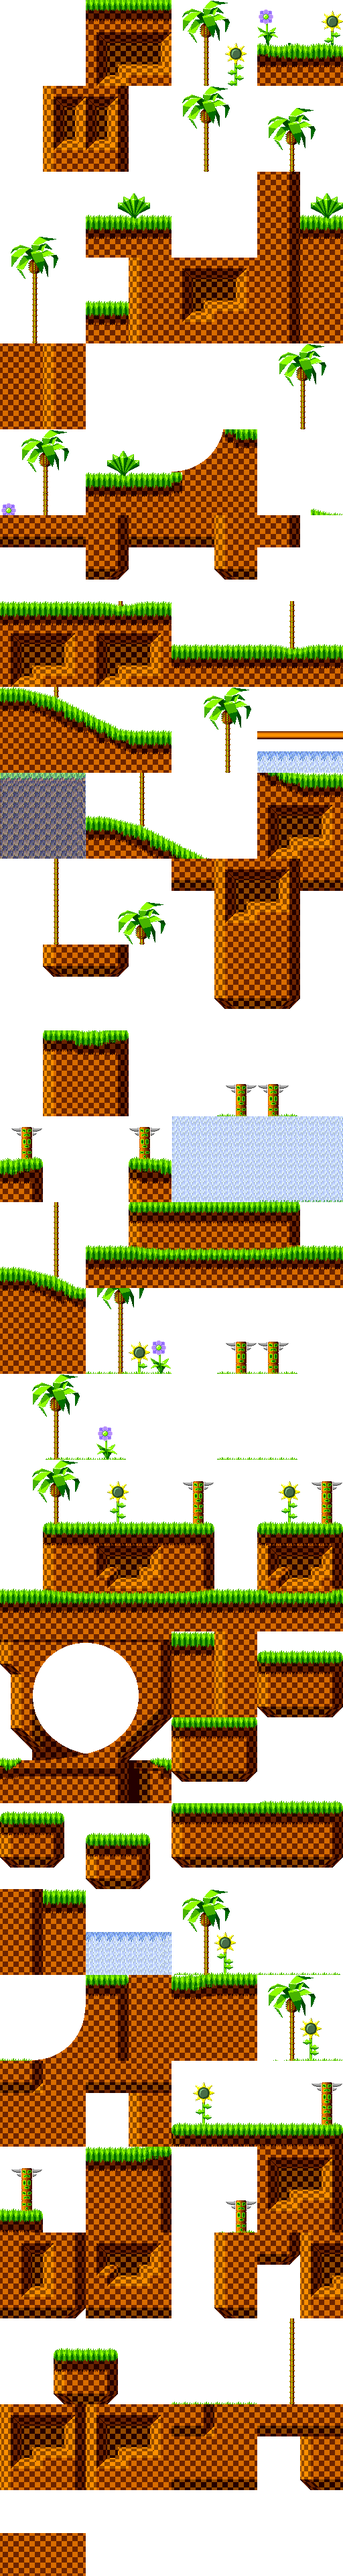
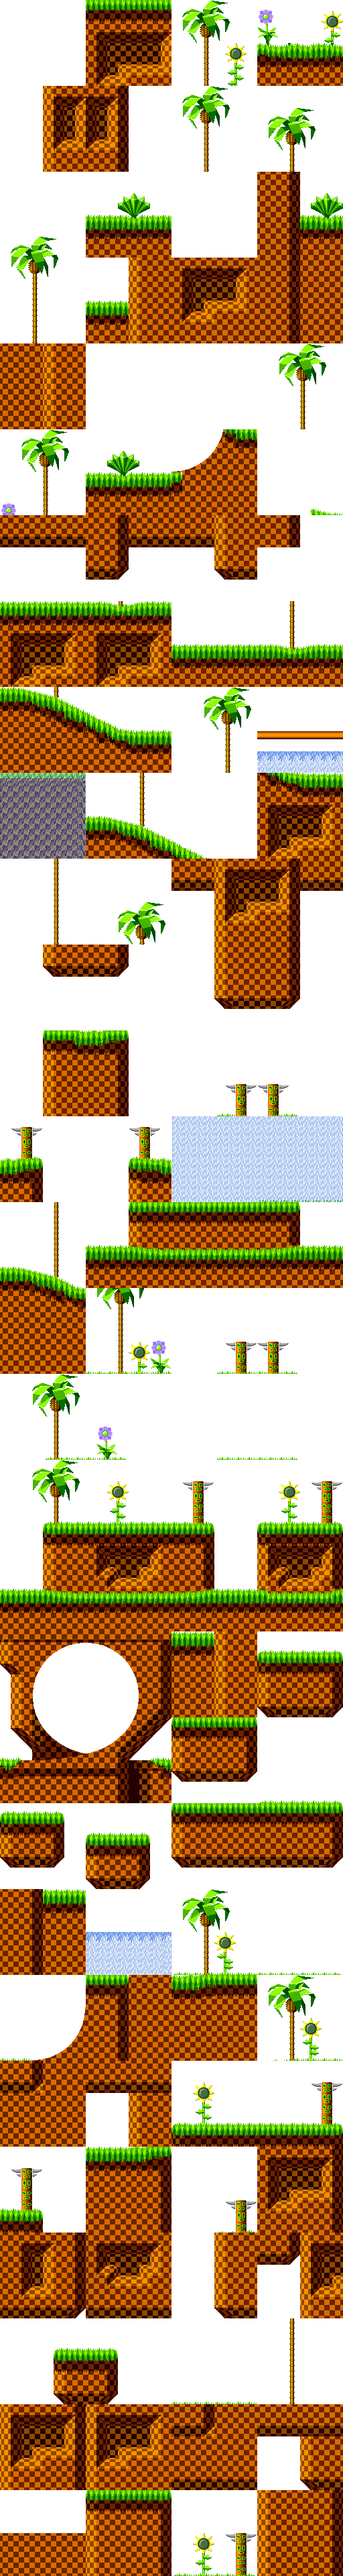
Improve Green Hill Zone 1, fix object Y positioning

diff --git a/src/object_state.c b/src/object_state.c
@@ -209,7 +209,7 @@ begin_render_routine:
         } else {
             vx -= frame->w >> 1;
             if(flipmask & MASK_FLIP_FLIPY) vy -= 64 - frame->h;
-            vy -= frame->h - 2;
+            vy -= frame->h;
         }
         break;
     }
